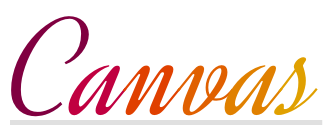
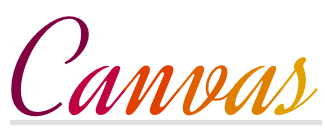
Remove Printlns and update title.png

diff --git a/font/sfnt_cff.go b/font/sfnt_cff.go
@@ -134,7 +134,6 @@ func (cff *cffTable) ToPath(p Pather, glyphID, ppem uint16, dx, dy, fx, fy float
 			}
 			stack = append(stack, v)
 		} else {
-			fmt.Println(b0, len(stack), stack)
 			if firstOperator && (b0 == 1 || b0 == 3 || b0 == 4 || b0 == 14 || 18 <= b0 && b0 <= 23) {
 				// optionally parse width
 				hasWidth := len(stack)%2 == 1
@@ -495,7 +494,6 @@ func (cff *cffTable) ToPath(p Pather, glyphID, ppem uint16, dx, dy, fx, fy float
 				if i < 0 || math.MaxUint16 < i {
 					return fmt.Errorf("CFF: bad subroutine")
 				}
-				fmt.Println(" > subr", i)
 
 				var subr []byte
 				if b0 == 10 {
@@ -516,7 +514,6 @@ func (cff *cffTable) ToPath(p Pather, glyphID, ppem uint16, dx, dy, fx, fy float
 				if len(callStack) == 0 {
 					return fmt.Errorf("CFF: bad return")
 				}
-				fmt.Println(" < ret")
 				r = callStack[len(callStack)-1]
 				callStack = callStack[:len(callStack)-1]
 			default:

diff --git a/resources/title.go b/resources/title.go
@@ -1,7 +1,6 @@
 package main
 
 import (
-	"fmt"
 	"image/color"
 
 	"github.com/tdewolff/canvas"
@@ -28,7 +27,6 @@ func draw(c *canvas.Context) {
 	face := font.Face(80.0, canvas.Black, canvas.FontRegular, canvas.FontNormal)
 
 	p, adv, _ := face.ToPath("C", resolution)
-	fmt.Println(p)
 	c.SetFillColor(color.RGBA{128, 0, 64, 255})
 	c.DrawPath(x, 4, p)
 	x += adv
